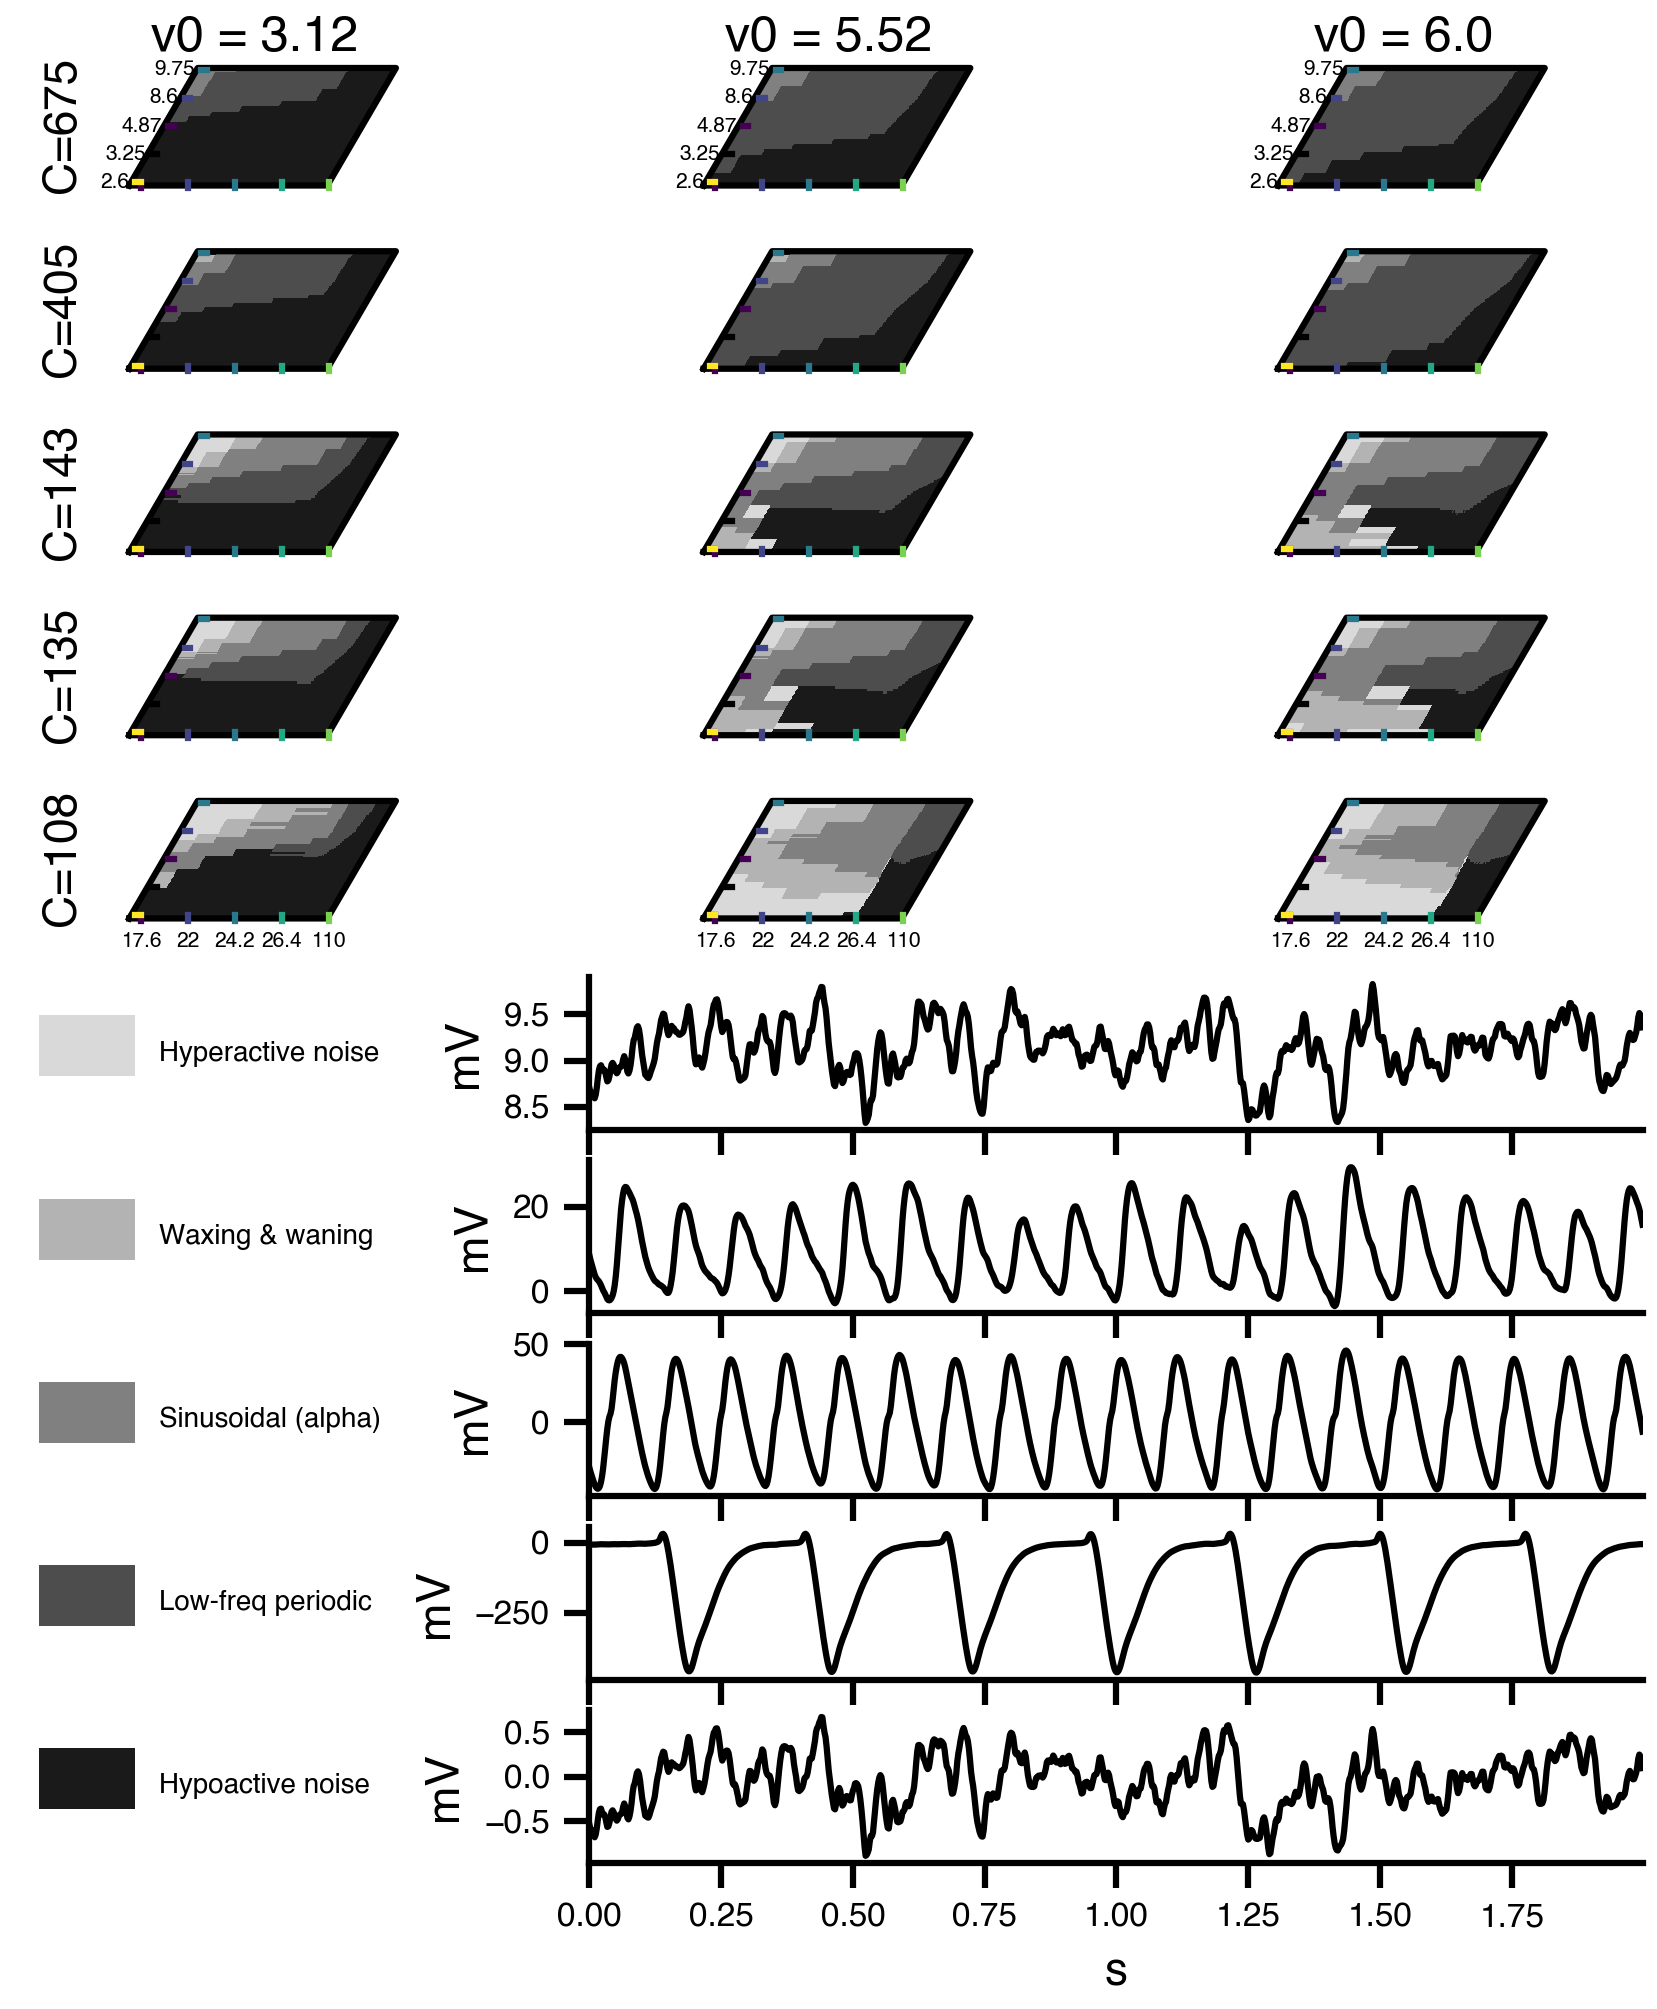
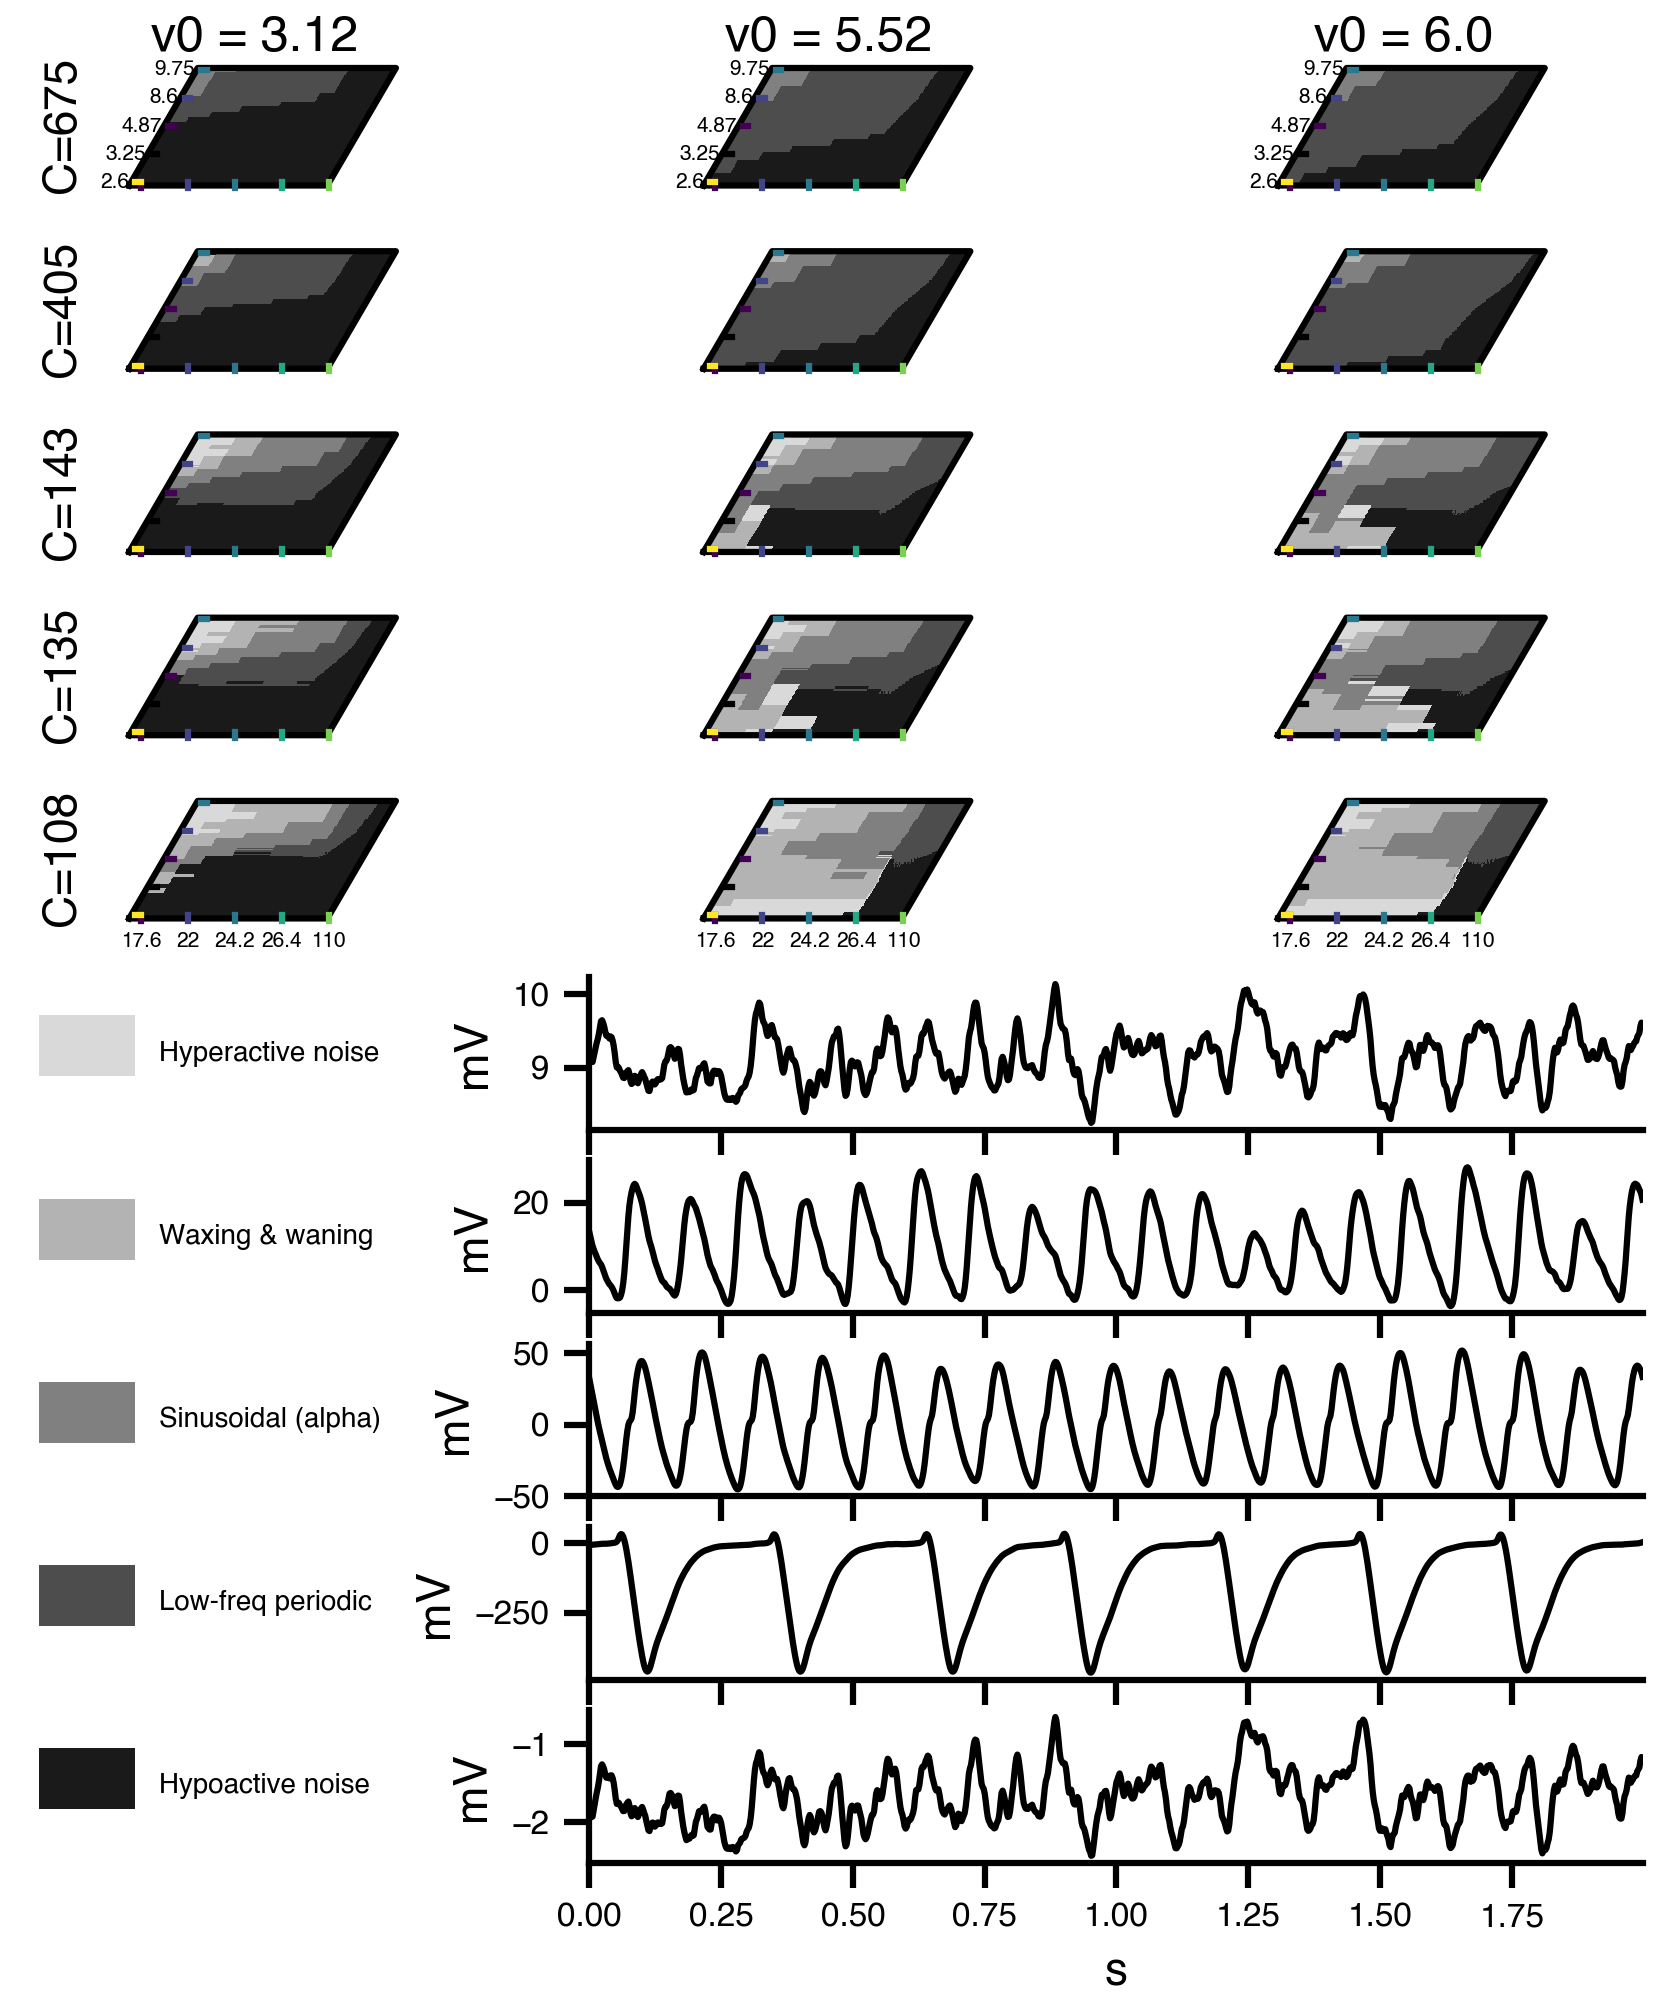
update docs

diff --git a/docs/Replication/Jansen1995/Jansen1995_plot.py b/docs/Replication/Jansen1995/Jansen1995_plot.py
@@ -620,7 +620,7 @@ def plot_fig5(res, experiment):
     er = res.exploration.K_sweep_symmetric_fig5
     n0, n1 = er.shape
     n_nodes = 2  # from data shape
-    grid = np.array(er.results.reshape(n0, n1, -1, n_nodes))
+    grid = np.asarray(er.results).reshape(n0, n1, -1, n_nodes)
     K_vals = _get_axis_values(er, 0)
     dt = er.dt
     t = _time_axis(grid.shape[2], dt)
@@ -752,7 +752,7 @@ def plot_fig6(res, experiment):
     er = res.exploration.K_sweep_asymmetric_fig6
     n0, n1 = er.shape
     n_nodes = 2
-    grid = np.array(er.results.reshape(n0, n1, -1, n_nodes))
+    grid = np.asarray(er.results).reshape(n0, n1, -1, n_nodes)
 
     ax0_vals = _get_axis_values(er, 0)
     ax1_vals = _get_axis_values(er, 1)
